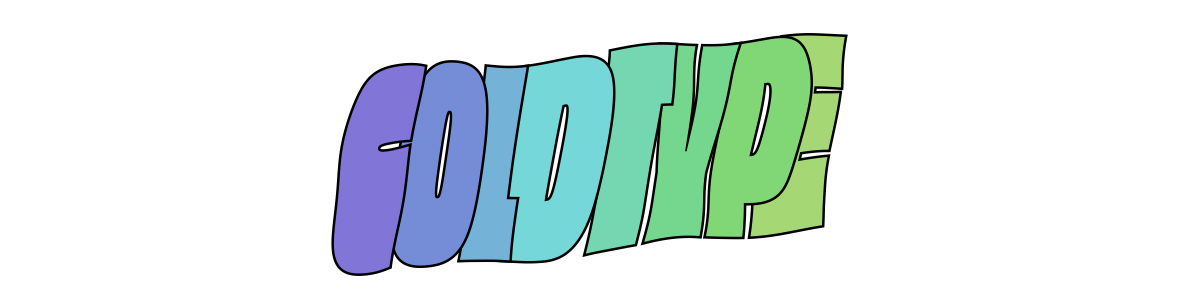
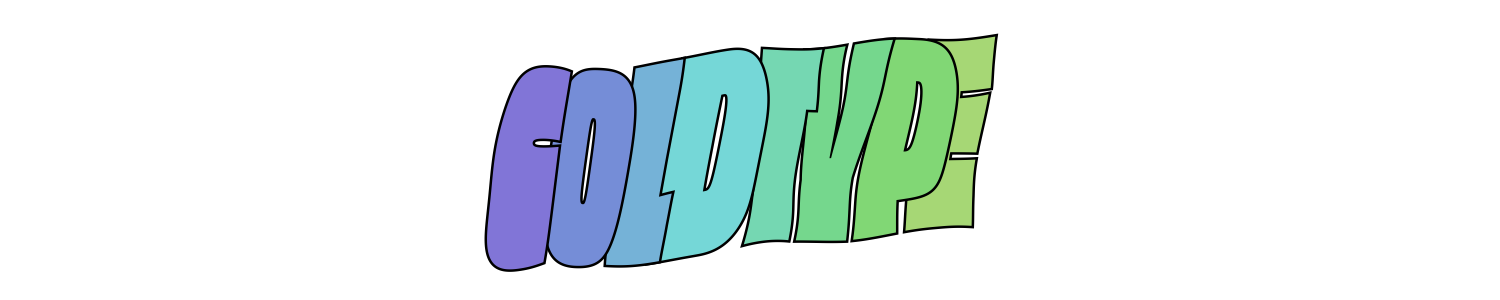
wider image

Changed region(s): [[0.2775, 0.09, 0.7092, 0.93]]

diff --git a/examples/example.py b/examples/example.py
@@ -3,7 +3,7 @@ from coldtype.pens.datpen import warp_fn
 
 font = Font("ç/ColdtypeObviously.designspace")
 
-@renderable(rect=(1200, 300))
+@renderable(rect=(1500, 300))
 def coldtype(r):
     kp = kern_pairs={("L","D"):-5, ("T","Y"):-20, ("Y","P"):10,("P","E"):-100}
     style = Style(font, 650, fill="random", wdth=1, tu=-50, r=1, ro=1, kp=kp)
